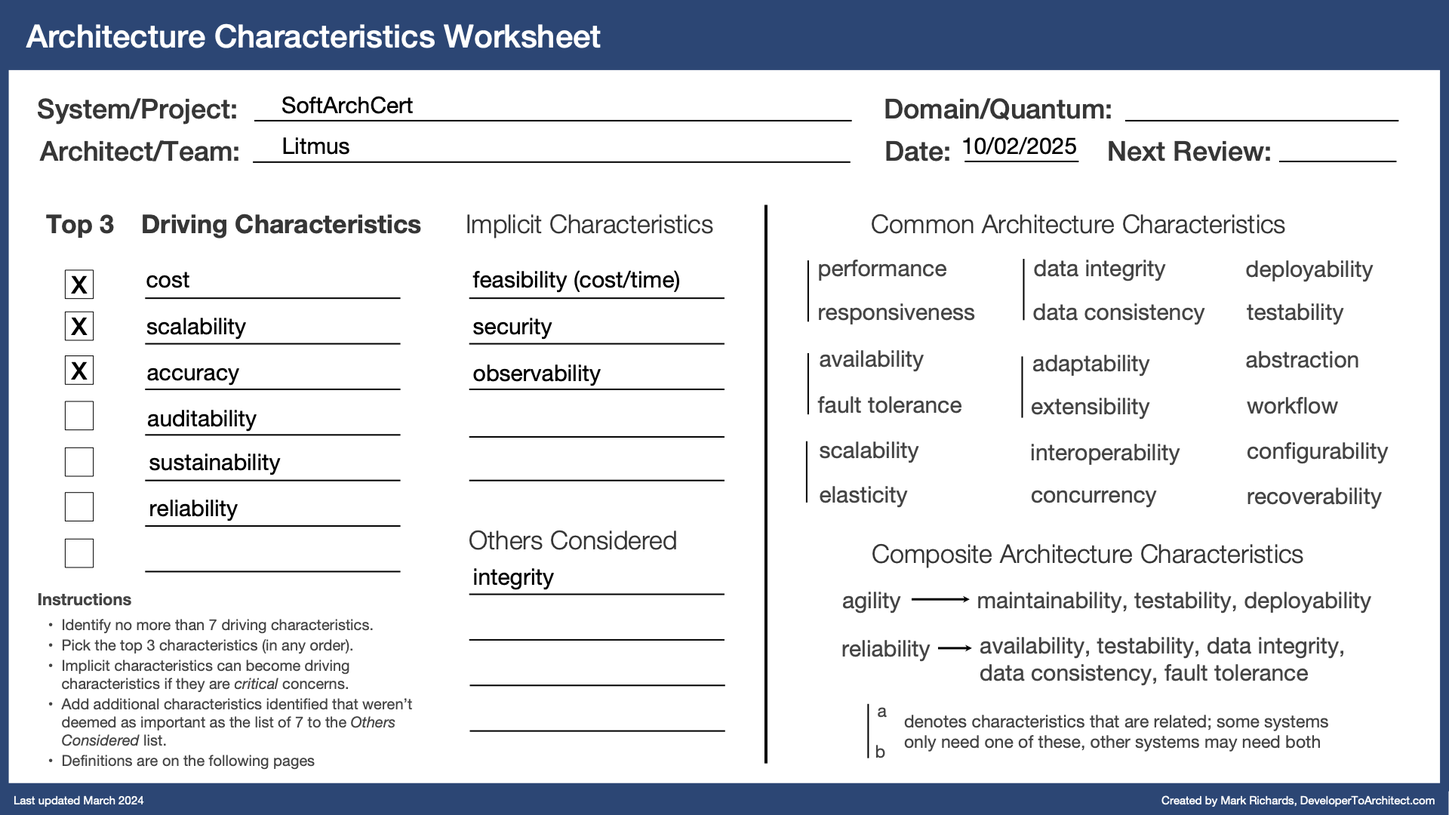
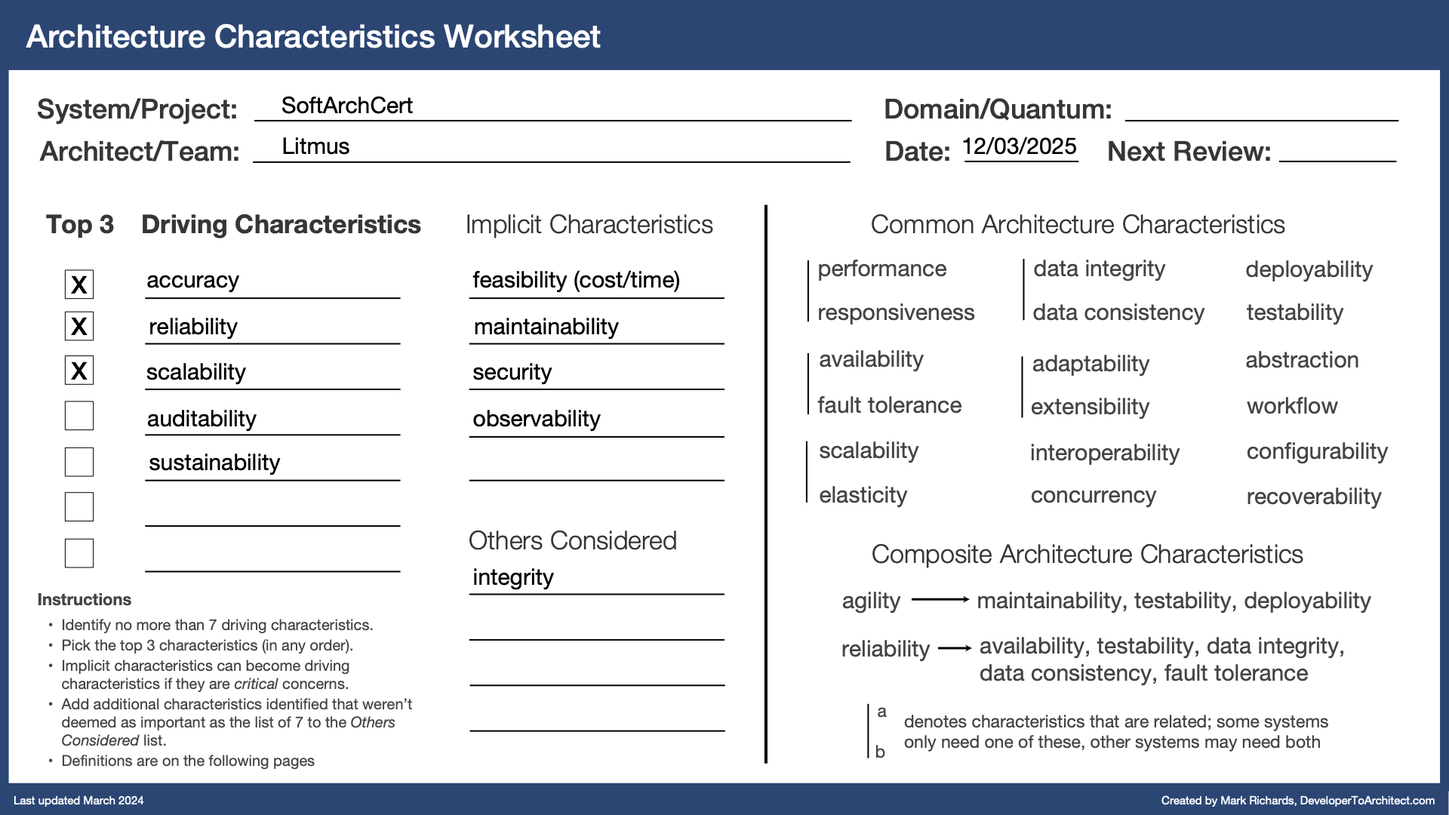
Making changes

Changed region(s): [[0.3125, 0.3972, 0.4375, 0.5194], [0.0938, 0.3361, 0.1875, 0.4889], [0.0938, 0.6111, 0.1562, 0.6417]]

diff --git a/Architecture Characteristics/architecture-characteristics.md b/Architecture Characteristics/architecture-characteristics.md
@@ -8,17 +8,18 @@ Starting from the business requirements the following important characteristics 
 
 | **Term**             | **Definition**                                                                                                                                                                                                                                                                                                                             |
 | -------------------- | ------------------------------------------------------------------------------------------------------------------------------------------------------------------------------------------------------------------------------------------------------------------------------------------------------------------------------------------ |
-| **cost**             | Taking into account cost implications early and continuously throughout the design, implementation, and ongoing maintainance of the system from a total cost of ownership (TCO) perspective including development, operational, maintenance & support, training, infrastructure, compliance & regulatory, time-to-market, and risks costs. |
-| **scalability**      | A function of system capacity and growth over time; as the number of users or requests increase in the system, responsiveness, performance, and error rates remain constant                                                                                                                                                                |
-| **accuracy**         | Accuracy and precision is used to characterize and measure results of an AI process that results in the transformation of data, information, knowledge, or wisdom to a higher-valued form.                                                                                                                                                 |
+| **accuracy**         | Accuracy and precision is used to characterize and measure results of an AI process that results in the transformation of data, information, knowledge, or wisdom to a higher-valued form                                                                                                                                                  |
 | **availability**     | The amount of uptime of a system; usually measured in 9's (e.g., 99.9%)                                                                                                                                                                                                                                                                    |
 | **testability**      | The ease of and completeness of testing                                                                                                                                                                                                                                                                                                    |
 | **data integrity**   | The data across the system is correct and there is no data loss in the system                                                                                                                                                                                                                                                              |
 | **data consistency** | The data across the system is in sync and consistent across databases and tables                                                                                                                                                                                                                                                           |
 | **fault tolerance**  | When fatal errors occur, other parts of the system continue to function                                                                                                                                                                                                                                                                    |
+| **cost**             | Taking into account cost implications early and continuously throughout the design, implementation, and ongoing maintainance of the system from a total cost of ownership (TCO) perspective including development, operational, maintenance & support, training, infrastructure, compliance & regulatory, time-to-market, and risks costs. |
+| **scalability**      | A function of system capacity and growth over time; as the number of users or requests increase in the system, responsiveness, performance, and error rates remain constant                                                                                                                                                                |
 | **auditability**     | Tracking, logging, and providing evidence of operations, decisions, and changes to data over time. This ensures that the system's activities can be reviewed and verified for accuracy, compliance, and security.                                                                                                                          |
 | **sustainability**   | ability to maintain long-term operation, adaptability, and efficiency while minimizing negative impacts on the environment, resources, and social aspects                                                                                                                                                                                  |
 | **feasibility**      | Taking into account timeframes, budgets, and developer skills when making architectural choices; tight timeframes and budgets make this a driving architectural characteristic                                                                                                                                                             |
+| **maintainability**  | The level of effort required to locate and apply changes to the system                                                                                                                                                                                                                                                                     |
 | **security**         | The ability of the system to restrict access to sensitive information or functionality                                                                                                                                                                                                                                                     |
 | **observability**    | The ability of a system or a service to make available and stream metrics such as overall health, uptime, response times, performance, etc.                                                                                                                                                                                                |
 
@@ -26,18 +27,18 @@ Starting from the business requirements the following important characteristics 
 
 Key characteristics prioritized:
 
-- **Cost**: Essential, as the cost of implementing and operating the system using AI technologies to automatically grade tests must be signficantly lower than the cost to manually grade tests especially at scale.
-- **Scalability**: A scalable system is required to handle the expected increase from 200 candidates per week to 5-10X based on oversees expansion as well as the anticipated 21% growth over the next 4 years.
 - **Accuracy**: Accuracy of the certification process is vital for the success of the company, and critical to ensure candidates do not suffer job loss or career damage due to inaccuracy.
 - **Reliability**: In addition to the reliability the existing system exhibits.
-  - **Availability**: The system remains up and servicing requests as the certification process is essential for candidates to become certified or renew certification for the purposes of their employment and career.
+  - **Availability**: To ensure grades are available for employers to validate certification, that candidates are able to take exams, and that architecture experts are able to manually grade submissions through random sampling or through the appeals process.
   - **Testability**: Robust regression tests are needed for non-deterministic AI systems to ensure quality and accuracy.
   - **Data Integrity**: Data generated by AI systems if not stored correctly with without data loss would be detrimental to the certification process.
   - **Data Consistency**: Data generated by AI systems if not in sync and consistent across databases and tables would be detrimental to the certification process.
-  - **Fault Tolerance**: Ensures product stability and partial functional availability in the system in the event of component failure.
+  - **Fault Tolerance**: Ensures product stability and partial functional availability in the system in the event of component failure e.g., failure of test 1 functionality does not effect test 2 functionality.
+- **Scalability**: Technically there is no challenge in the system meeting current SLAs even with the projected load through expansion, however scalability is a key factor in reducing SLAs in order to maintain a competitive advantage in the marketplace even with expansion, and to add additional certification paths beyond what is offered today.
 - **Auditability**: AI systems processes and results can be reviewed and verified for accuracy, compliance, and security.
 - **Sustainability**: Workloads, especially AI workloads, use the least amount of energy, cooling, embodied carbon, and carbon emissions possible while serving customer needs.
-- **Feasibility**: Cost-effective decisions minimize variance in basic functionality costs, offsetting the uncertainty of AI integration and maintenance.
+- **Feasibility**: Cost-effective decisions minimize variance in basic functionality costs, offsetting the uncertainty of AI integration and maintenance, and improving time-to-market to take advantage of opportunities to expand abroad. Continued cost analysis allows us to balancing cost, accuracy, and reducing SLAs over time to maintain market dominance.
+- **Maintainability**: Allows us to respond quickly to changes required due to reduction of accuracy in grading, taking advantage of new, more powerful and cost effective models, and new technologies that improve the cost/accurancy/SLA balance.
 - **Security**: Essential, as candidate details are stored in the system, along with the entire history of candidate answers to questions, and the examination questions both current and past.
 - **Observability**: It is crucial to provide the right level of system observability so errors can be detected early, root cause established and dealt with quickly, and decisions to deploy a temporary increase in manual grading made when needed to keep the grading backlog at manageable levels.
 
@@ -45,33 +46,53 @@ Reduced priorities:
 
 - **Integrity**: This is covered by accuracy, reliability, and auditability,
 
-## Selecting the Top 3
+## Selecting the Top 3 Driving Architecture Characteristics
 
 During the requirements gathering process and the [EventStorming](../Event%20Storming/event-storming.md) session, we identified four main challenges:
 
-- We need to carefully balance cost and accuracy whilst meeting scaling targets without having to scale personell linearly with demand.
-- GenAI is non-deterministic, so we need a way to continually test, monitor, and calibrate the automatic graders.
+- We need to carefully balance cost, accuracy, and SLAs whilst meeting projected scaling targets, potential certification path expansion, and maintain market dominance without having to scale personell linearly with demand.
+- GenAI is non-deterministic, so we need a way to continually test, monitor, and calibrate the accuracy of the automatic graders and test generators, along with appropriate human-in-the-loop capabilities.
 - We need to be able to satisfactorily explain the process of how the automatic graders determined their score and provided feedback for the purposes of optimisation, and potential external litigation.
 - To keep SoftArchCert's continuing competitive advantage we need to ensure the solution can continuously evolve to meet tighter SLAs and customer demands whilst maintaining accuracy and reliability.
 
-These challenges led us to conclude that _Cost_, _Scalability_, and _Accuracy_ are the top three driving factors for this project.
+These challenges led us to conclude that _Accuracy_, _Reliability_, and _Scalability_ are the top three driving factors for this project.
 
-### Cost
-
-- We are using a baseline average cost per manual Aptitude Test grading and manual Architecture Submission grading to compare our GenAI solution to.
-- A low cost GenAI model will provide basic inferencing capabilities with the expert software architecture knowledge relevant to queries being supplied by the RAG pattern.
-- AWS Bedrock inference batching allows us to spread queries out over time, while still meeting SLAs, and allows us to avail of 50% lower price compared to on-demand inference pricing using AWS Bedrock.
-- To future-proof the SoftArchCert system, we aim to ensure the interchangeability of GenAI models so we can continue to leverage advancements in performance, speed, accuracy, and cost to improve SLAs and customer satisfaction.
-
-### Scalability
-
-- Currently 200 candidates are graded per week in the US which is expected to grow to 5-10X based on oversees expansion as well as the anticipated 21% growth over the next 4 years.
-- AWS Step Functions allow us to orchestrate grading queries to AWS Bedrock, and AWS Bedrock Knowledge Bases to facilitate the RAG pattern. These capabiliies are highly scalable and able to meet the expected demand.
-- The automatic Aptitude Testing grader will have higher demand, but lower processing needs compared to automatic Architecture Submission grader which will lower load, but higher processing needs.
+![Architecture Characteristics](./architecture-characteristics.png)
 
 ### Accuracy
 
 - Inaccurate grading can result in a candidate not getting or maintaining a job and can impact a candidate's career.
 - Inaccurate or misleading certification exams and case studies can undermine the credibility of the company’s current standing in the marketplace, so accuracy of the certification process is vital for the success of the company.
-- Robust regression tests are needed for non-deterministic AI systems to ensure quality.
+- Robust regression tests are needed for non-deterministic AI systems to ensure quality due to model degradation, model changes, and changes in source material loaded into the vector database to facilitate the RAG pattern.
 - Continuous calibration of the results from AI processes against a small sample of equivalent manual processing ensures accuracy remains high.
+
+### Reliability
+
+- **Availability**: Candidate careers and employment status heavily dependent on certification means the system must be available for candidates to take exams, architecture experts can manually grade/review submissions, and architecture experts can continue to maintain exam material and keep the certification process credible in the marketplace.
+- **Testability**: As a recognized leader in certification, accuracy of tests, case studies, and grading inaccurate grading can result in a candidate not getting or maintaining a job and can impact a candidate's career, therefore the system must be easy to test, and those tests provide a sufficient level of coverage and completeness to maintain the high levels of accuracy needed to maintain credibility in the marketplace.
+- **Data Integrity**: Data within the databases in the system represent the true exam responses, exam grades and feedback, certification status for all candidates, and that the exam material stored is present and correct and reflects the current benchmark against which examinations are graded.
+- **Data Consistency**: Data generated by the AI systems across the various capabilities: test 1, test 2, test generation, accuracy validation remain consistent across the various datastores such that an accurate representation of certification status for all candidates is maintained, and examination material used in the examination process is present and correct across all systems.
+- **Fault Tolerance**: Candidate careers and employment status heavily dependent on certification means that even if parts of the system become unavailable candidates can continue to take exams for those tests that are still functional, and that architect experts can continue to maintain the system so at least partially examinations can continue to take place.
+
+### Scalability
+
+- Technically there is no challenge in the system meeting current SLAs even with the projected load through expansion, however scalability is a key factor in reducing SLAs in order to maintain a competitive advantage in the marketplace even with expansion, and to add additional certification paths beyond what is offered today.
+- By building scalability into the solution through use of AWS Bedrock to provide AI capabilities, we are leaving the solution open to evolve to support tighter SLAs, and future certification paths beyond what the company offers today, thereby providing a path for the company to grow stronger and remain dominant in the marketplace.
+
+## Selecting the Top 2 Implicit Architecture Characteristics
+
+### Feasability (cost/time)
+
+- Certifiable, Inc. has heard that the use of AI can be somewhat costly and are concerned about significant cost overruns by introducing AI into their certification process. However, while cost is certainly a factor, given that this initiative is a strategic one, they are willing to be somewhat flexible.
+- It is important to closely analyse costs and time-to-market in appyling AI functionality to the solution and determine feasibility to justify ROI, and to quickly take advantage of opportunities to expand in the marketplace.
+- Balancing cost, accuracy, and SLAs from a technical perspective opens up business opportunities to improve each over time.
+- As AI and AI adoption is critical to the continued success of businesses in the future it is important to grow skills in working with, and creating AI systems within the organisation.
+- A low cost GenAI model will provide basic inferencing capabilities with the expert software architecture knowledge relevant to queries being supplied by the RAG pattern.
+- AWS Bedrock inference batching allows us to spread queries out over time, while still meeting SLAs, and allows us to avail of 50% lower price compared to on-demand inference pricing using AWS Bedrock.
+- To future-proof the SoftArchCert system, we aim to ensure the interchangeability of GenAI models so we can continue to leverage advancements in performance, speed, accuracy, and cost to improve SLAs and customer satisfaction.
+
+### Maintainability
+
+- It is important that we are able to respond quickly to changes in order to optimise cost, accuracy, and SLAs over time.
+- Changes to examination material may trigger a reduction in accuracy and quick response to this is essential.
+- Quickly responding to new AI models, AI technology enhancements and capabilities is important to maintain competitve dominance.

diff --git a/README.md b/README.md
@@ -81,34 +81,33 @@ The following ADRs provide the detail around these decisions and the safeguards 
 - **Automate Grading and Review Processes**: Explore ways in which Generative AI can automate the grading and review of 
 software architecture submissions, reducing the burden on expert architects and accelerating response times for
 certification.
-   - [ADR-01: Aptitude Test Grader](/ADRs/ADR-01-Aptitude-Test-Grader.md)
-   - [ADR 02: Handling Low Confidence Scores in AI-Enhanced Grading](/ADRs/ADR-02-Handling-Low-Confidence-Scores-in-AI-Enhanced-Grading.md)
-   - [ADR-03: Structured Formatting of Exam Inputs](/ADRs/ADR-03-Structured-Formatting-of-Exam-Inputs.md)
-   - [ADR-04: Architectural Submission Grader](/ADRs/ADR-04-Architectural-Submission-Grader.md)
-   - [ADR-14: Processing strategy for exam grading](/ADRs/ADR-14-Processing-strategy-for-exam-grading.md)
+   - [ADR-03: Aptitude Test Grader](/ADRs/ADR-03-Aptitude-Test-Grader.md)
+   - [ADR 04: Handling Low Confidence Scores in AI-Enhanced Grading](/ADRs/ADR-04-Handling-Low-Confidence-Scores-in-AI-Enhanced-Grading.md)
+   - [ADR-05: Structured Formatting of Exam Inputs](/ADRs/ADR-05-Structured-Formatting-of-Exam-Inputs.md)
+   - [ADR-06: Architectural Submission Grader](/ADRs/ADR-06-Architectural-Submission-Grader.md)
+   - [ADR-16: Processing strategy for exam grading](/ADRs/ADR-16-Processing-strategy-for-exam-grading.md)
 
 - **Identify AI Opportunities**: Assess the current SoftArchCert system to identify specific areas where Generative AI 
 can be applied to improve efficiency, scalability, and accuracy in handling certification requests.
-   - [ADR-05: Using AI to generate Architecture questions for the exam](/ADRs/ADR-05-Using-AI-to-generate-Architecture-questions-for-the-exam.md)
+   - [ADR-07: Using AI to generate Architecture questions for the exam](/ADRs/ADR-07-Using-AI-to-generate-Architecture-questions-for-the-exam.md)
 
 - **Redesign System Architecture**: Develop a comprehensive plan for redesigning the SoftArchCert system architecture to
 incorporate AI capabilities, ensuring the architecture can support the anticipated growth in certification volume.
-   - [ADR-06: Data Pipeline ETL](/ADRs/ADR-06-Data-Pipeline-ETL.md)
-   - [ADR-07: Approach for RAG implementation](/ADRs/ADR-07-Approach-for-RAG-implementation.md)
+   - [ADR-08: Data Pipeline ETL](/ADRs/ADR-08-Data-Pipeline-ETL.md)
+   - [ADR-09: Approach for RAG implementation](/ADRs/ADR-09-Approach-for-RAG-implementation.md)
 
 - **Enhance User Experience**: Identify improvements in user experience for both applicants and certifiers through the 
 integration of AI, ensuring that the certification process remains intuitive and efficient.
-    - [ADR-08: AI agent to monitor candidates for cheating](/ADRs/ADR-08-AI-Agent-to-monitor-candidates-for-cheating.md)
-    - [ADR-09: Feedback from AI generated grading](/ADRs/ADR-09-Feedback-from-AI-generated-grading.md)
-    - [ADR 10: Utilizing LLM Caching in the System](/ADRs/ADR-10-Utilizing-LLM-Caching-in-the-System.md)
+    - [ADR-10: AI agent to monitor candidates for cheating](/ADRs/ADR-10-AI-Agent-to-monitor-candidates-for-cheating.md)
+    - [ADR-11: Feedback from AI generated grading](/ADRs/ADR-11-Feedback-from-AI-generated-grading.md)
+    - [ADR 12: Utilizing LLM Caching in the System](/ADRs/ADR-12-Utilizing-LLM-Caching-in-the-System.md)
 
 - **Ensure Compliance and Quality**: Establish mechanisms to maintain the integrity and quality of certification 
 standards, ensuring that the integration of AI does not compromise the rigorous evaluation process that Certifiable, 
 Inc. is known for.
-    - [ADR-11 Data Provisioning for Analytics and AI Model Development](/ADRs/ADR-11-Data-Provisioning-for-Analytics-and-AI-Model-Development.md)
-    - [ADR-12: Hosting strategy](/ADRs/ADR-12-Hosting-strategy.md)
-    - [ADR-13: Grader Output Validation](/ADRs/ADR-13-Grader-Output-Validation.md)
-    - [ADR-17: Validating AI Generated Answers Against Historical Data](/ADRs/ADR-17-Validating-AI-Generated-Answers-Against-Historical-Data.md)
+    - [ADR-13 Data Provisioning for Analytics and AI Model Development](/ADRs/ADR-13-Data-Provisioning-for-Analytics-and-AI-Model-Development.md)
+    - [ADR-14: Hosting strategy](/ADRs/ADR-14-Hosting-strategy.md)
+    - [ADR-15: Grader Output Validation](/ADRs/ADR-15-Grader-Output-Validation.md)
 
 ## Product Implementation Decisions
 
@@ -236,13 +235,14 @@ We chose the following as our top 3 architectural characteristics:
 
 ## Architecture Style
 
-According to the TOP 2 driving characteristics:
+According to the TOP 2 driving characteristics and TOP 2 implicit characteristics:
 
-- cost
-- scalability
-- testability (accuracy)
+- maintainability (accuracy)
+- testability
+- cost (feasability)*
+- simplicity (feasability)*
 
-a service-based architecture was selected to leverage the optimal balance between cost, feasibility, scalability, and testability (essential to accuracy).
+a service-based architecture was selected to leverage the optimal balance between feasibility testability, (cost), maintainability, scalability, and testability (essential to accuracy).
 
 ![Architecture Style](/architecture-style.png)
 
@@ -266,7 +266,7 @@ Container diagrams for new architectural components
 ## Known Limitations
 
 The current architecture has the following limitations:
-  - In the future we could implement an AI agent that utilizes machine learning algorithms to monitor candidates during assessments, analyse behavioral patterns, and identify anomalies that may indicate cheating but we decided against this for MVP as outlined in [ADR-08 AI Agent to monitor candidates for cheating](/ADRs/ADR-08-AI-Agent-to-monitor-candidates-for-cheating.md)
+  - In the future we could implement an AI agent that utilizes machine learning algorithms to monitor candidates during assessments, analyse behavioral patterns, and identify anomalies that may indicate cheating but we decided against this for MVP as outlined in [ADR-10 AI Agent to monitor candidates for cheating](/ADRs/ADR-10-AI-Agent-to-monitor-candidates-for-cheating.md)
 
 ## Usage of GenAI
 

diff --git a/ADRs/ADR-03-Aptitude-Test-Grader.md b/ADRs/ADR-03-Aptitude-Test-Grader.md
@@ -1,6 +1,6 @@
 # Architecture Decision Record (ADR)
 
-## ADR 01: Aptitude Test Grader
+## ADR 03: Aptitude Test Grader
 
 ### Status
 
@@ -82,8 +82,5 @@ Multiple GenAI personas can be developed to each adopt a specific role when it c
 - Integration Complexity: More complex architecture needed to manage and coordinate the outputs of various models effectively.
 
 ### References
-- [ADR-07: Approach for RAG implementation](./ADR-07-Approach-for-RAG-implementation.md)
-- [ADR-09: Feedback from AI generated grading](./ADR-09-Feedback-from-AI-generated-grading.md)
-
-### Date
-[Date of the decision]
+- [ADR-09: Approach for RAG implementation](./ADR-09-Approach-for-RAG-implementation.md)
+- [ADR-11: Feedback from AI generated grading](./ADR-11-Feedback-from-AI-generated-grading.md)

diff --git a/ADRs/ADR-06-Architectural-Submission-Grader.md b/ADRs/ADR-06-Architectural-Submission-Grader.md
@@ -1,6 +1,6 @@
 # Architecture Decision Record (ADR)
 
-## ADR 04: Architectural Submission Grader
+## ADR 06: Architectural Submission Grader
 
 ### Status
 
@@ -60,8 +60,8 @@ A rule-based system would be used, incorporating predefined criteria and guideli
 - Maintenance: Requires continuous updates to keep rules current with evolving standards and criteria.
 
 ### References
-- [ADR-07: Approach for RAG implementation](./ADR-07-Approach-for-RAG-implementation.md)
-- [ADR-09: Feedback from AI generated grading](./ADR-09-Feedback-from-AI-generated-grading.md)
+- [ADR-09: Approach for RAG implementation](./ADR-09-Approach-for-RAG-implementation.md)
+- [ADR-11: Feedback from AI generated grading](./ADR-11-Feedback-from-AI-generated-grading.md)
 
 ### Date
 [Date of the decision]

diff --git a/ADRs/ADR-11-Feedback-from-AI-generated-grading.md b/ADRs/ADR-11-Feedback-from-AI-generated-grading.md
@@ -1,6 +1,6 @@
 # Architecture Decision Record (ADR)
 
-## ADR-09: Feedback from AI generated grading
+## ADR-11: Feedback from AI generated grading
 
 ### Status
 - ACCEPTED
@@ -45,8 +45,8 @@ Feedback can be generated following the completion of grading, allowing for a mu
 - Integration Challenges: Requires robust mechanisms to tie feedback back to the grading context.
 
 ### References
-- [ADR-01: Aptitude Test Grader](./ADR-01-Aptitude-Test-Grader.md)
-- [ADR-04: Architectural Submission Grader](./ADR-04-Architectural-Submission-Grader.md)
+- [ADR-03: Aptitude Test Grader](./ADR-03-Aptitude-Test-Grader.md)
+- [ADR-06: Architectural Submission Grader](./ADR-06-Architectural-Submission-Grader.md)
 
 ### Date
 [Date of the decision]

diff --git a/ADRs/ADR-02-Architecture-Style.md b/ADRs/ADR-02-Architecture-Style.md
@@ -1,6 +1,6 @@
 # Architecture Decision Record (ADR)
 
-## ADR-002: Architecture style
+## ADR-02: Architecture style
 
 ### Status:
 
@@ -36,4 +36,4 @@ This compliments the existing architecture as it too follows an event-based arch
 - Testability (independent services with clear interfaces).
 
 ### Weakened characteristics
-- Elasticity (due to shared databases between servuces).
+- Elasticity (due to shared databases between services).

diff --git a/ADRs/ADR-08-Data-Pipeline-ETL.md b/ADRs/ADR-08-Data-Pipeline-ETL.md
@@ -1,9 +1,9 @@
 # Architecture Decision Record (ADR)
 
-## ADR 06: Data Pipeline ETL 
+## ADR 08: Data Pipeline ETL 
 
 ### Status
-- <span style="color:green">ACCEPTED</span>
+- ACCEPTED
 
 ### Context
 We must determine how to efficiently load data from our operational systems into the data lake house. The lake house will provide access to various data sources, including exam data, candidate information, grading metrics, and feedback. 

diff --git a/ADRs/ADR-13-Data-Provisioning-for-Analytics-and-AI-Model-Development.md b/ADRs/ADR-13-Data-Provisioning-for-Analytics-and-AI-Model-Development.md
@@ -1,9 +1,9 @@
 # Architecture Decision Record (ADR)
 
-## ADR 11: Data Provisioning for Analytics and AI Model Development
+## ADR 13: Data Provisioning for Analytics and AI Model Development
 
 ### Status
-- <span style="color:green">ACCEPTED</span>
+- ACCEPTED
 
 ### Context
 To facilitate analytical and reporting needs, as well as future AI model development, 

diff --git a/ProductImplementationDecisions/Environmental-Impact.md b/ProductImplementationDecisions/Environmental-Impact.md
@@ -25,4 +25,4 @@ Review and enable migration to more effecient models as they become available.
 - [**Green AI**: Striving for Efficient Machine Learning ](https://medium.com/towards-data-science/towards-green-ai-how-to-make-deep-learning-models-more-efficient-in-production-3b1e7430a14)]
 
 ### Date
-- **Decision Date**: 2025-02-18
+2025-02-18

diff --git a/ADRs/ADR-04-Handling-Low-Confidence-Scores-in-AI-Enhanced-Grading.md b/ADRs/ADR-04-Handling-Low-Confidence-Scores-in-AI-Enhanced-Grading.md
@@ -1,6 +1,6 @@
 # Architecture Decision Record (ADR)
 
-## ADR 02: Handling Low Confidence Scores in AI-Enhanced Grading using Guardrails
+## ADR 04: Handling Low Confidence Scores in AI-Enhanced Grading using Guardrails
  
 ### Status
 - ACCEPTED

diff --git a/ADRs/ADR-07-Using-AI-to-generate-Architecture-questions-for-the-exam.md b/ADRs/ADR-07-Using-AI-to-generate-Architecture-questions-for-the-exam.md
@@ -1,6 +1,6 @@
 # Architecture Decision Record (ADR)
 
-## ADR 05: Using AI to generate Architecture questions for the exam
+## ADR 07: Using AI to generate Architecture questions for the exam
 
 ### Status
 - ACCEPTED

diff --git a/ADRs/ADR-05-Structured-Formatting-of-Exam-Inputs.md b/ADRs/ADR-05-Structured-Formatting-of-Exam-Inputs.md
@@ -1,6 +1,6 @@
 # Architecture Decision Record (ADR)
 
-## ADR 03: Structured Formatting of Exam Inputs
+## ADR 05: Structured Formatting of Exam Inputs
 
 ### Status
 - <span style="color:green">ACCEPTED</span>
